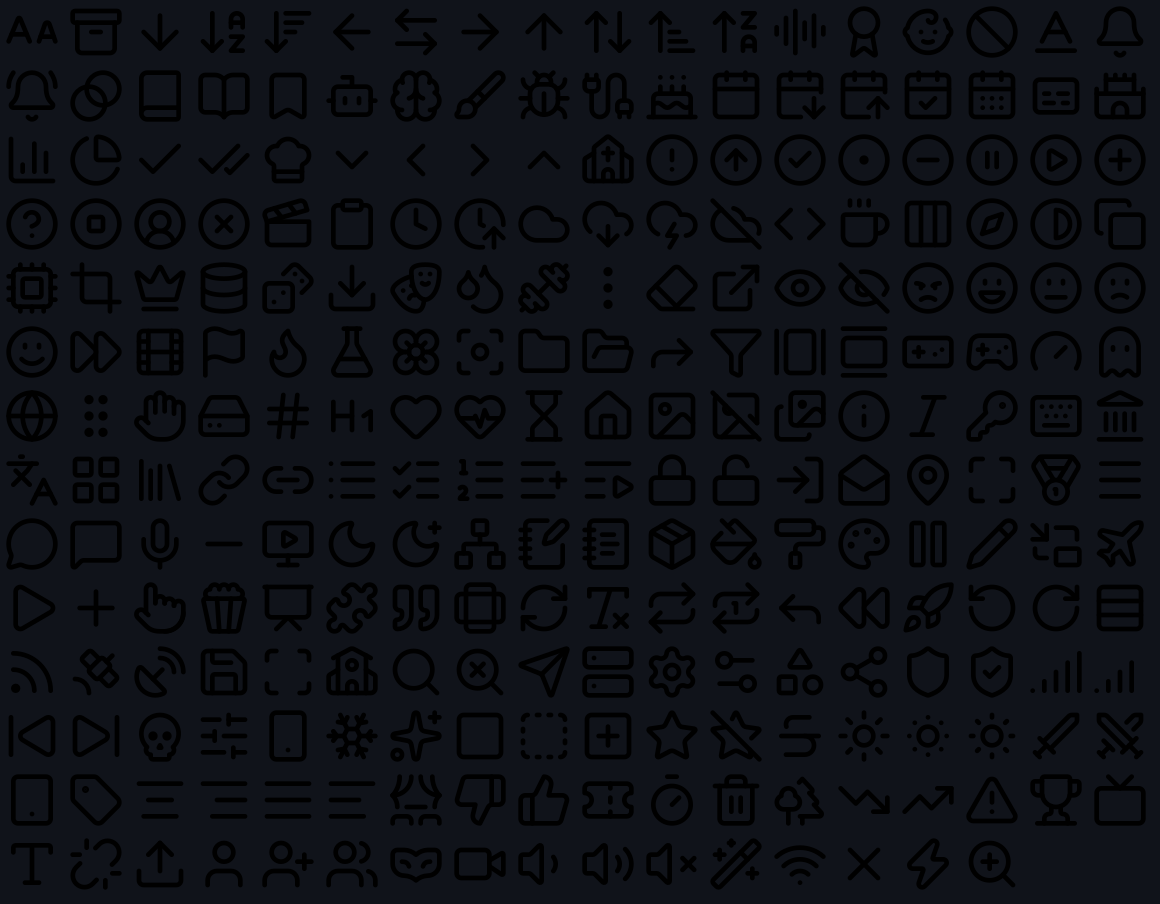
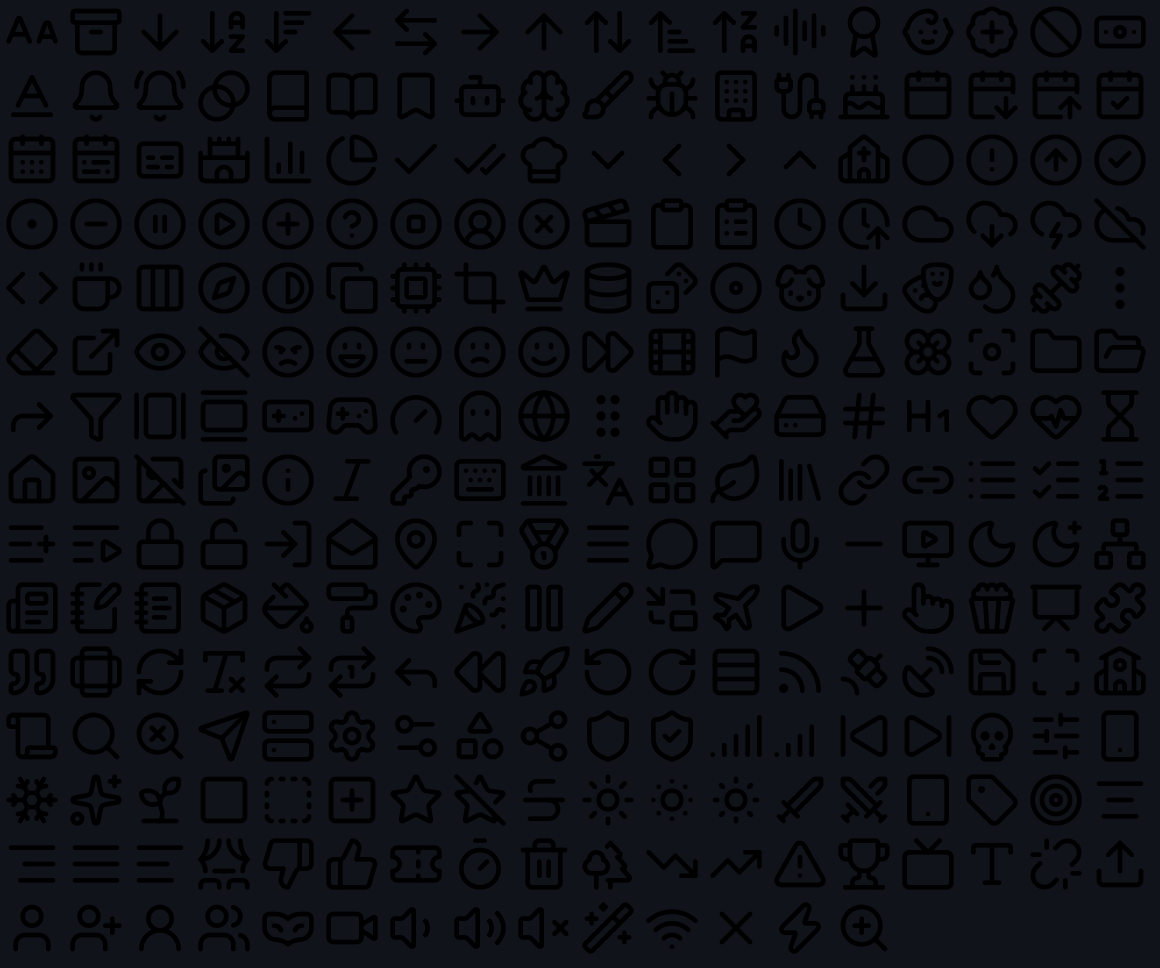
İkinci QA turu raporu + yenilenmiş ikon önizleme sayfası

Changed region(s): [[0.0, 0.0, 0.9931, 0.9912]]

diff --git a/UYGULAMA_GENELI_HD_IKON_GECISI_2026-10-31.md b/UYGULAMA_GENELI_HD_IKON_GECISI_2026-10-31.md
@@ -1,64 +1,93 @@
-# Uygulama Geneli HD İkon Geçişi — 2026-10-31
+# Uygulama Geneli HD İkon Geçişi — Durum Raporu (2. tur, 2026-10-31)
 
-## Amaç
-Uygulamadaki **tüm** tıklanır alanların (butonlar, ikon butonlar, açılır-kapanır
-kontroller, ayarlar satırları, alt sayfalar, diyaloglar, TV ekranları) ikonlarını:
-1. tek ortak mantığa bağlamak,
-2. **arka plansız, HD vektör** hâle getirmek,
-3. tema/vurgu rengiyle (düz + gradyan) otomatik uyumlu kılmak,
-4. açılır-kapanır alanlarda **animasyonlu** hâle getirmek.
+> Soru: "Emin misin? En ufak mantık hatası, buton uyumsuzluğu, aynı butonun farklı logo
+> kullanması, açılır-kapanır alanların ikonlarının eksik kalması… son kontrolleri yap."
+>
+> Aşağıdaki her madde **çalıştırılan betiklerin gerçek çıktısıyla** doğrulandı.
+> Doğrulanamayan tek şey derleme: bu ortamda JDK/Gradle/Android SDK yok.
 
-## 1) Tek kaynak: `ui/icons/KitsugiIcons.kt`
-- **208 HD ikon** (204 Lucide çizgi ikonu + heart/star/bookmark/bell dolu varyantları),
-  24dp ızgara, 2dp çizgi, yuvarlak uçlar — hepsi `ImageVector` olarak **lazy** üretilir.
-- **226 uyumluluk adı**: eski Material adları (`Icons.Rounded.Star`, `Icons.AutoMirrored.Rounded.ArrowBack`, …)
-  aynı HD ikona bağlandı → mevcut kod değişmeden çalışır.
-- Dolgu semantiği korundu: `Icons.Favorite` → dolu kalp, `Icons.FavoriteBorder` → çizgi kalp;
-  `Star/StarBorder`, `Bookmark/BookmarkBorder` aynı şekilde.
-- Hiçbir ikonda gömülü renk/arka plan yok: renk daima kullanıldığı yerin `tint` değerinden
-  (ve `LocalKitsugiAccent` gradyan fırçasından) gelir.
+---
 
-## 2) Göç: 251 dosya
-- `import androidx.compose.material.icons.Icons` → `import com.kitsugi.animelist.ui.icons.KitsugiIcons as Icons`
-- `Icons.Rounded.X`, `Icons.Default.X`, `Icons.Filled.X`, `Icons.AutoMirrored.Rounded.X`,
-  `androidx.compose.material.icons.Icons.Rounded.X` → `Icons.X`
-- Tek tek ikon importları ve `rounded.*` joker importları kaldırıldı.
-- Doğrulama: kodda **kalan Material ikon importu: 0**; kullanılan 286 aday ikon adının
-  tamamı `KitsugiIcons` içinde mevcut (eksik: 0).
+## 1. Bu turda bulunan GERÇEK hatalar (hepsi düzeltildi)
 
-## 3) Animasyonlu kontroller: `ui/components/KitsugiIconKit.kt`
-- `KitsugiChevronIcon`: açılır/kapanır alanlarda **tek chevron 0°↔180° yay animasyonuyla döner**
-  (eski `if (expanded) ExpandLess else ExpandMore` sıçraması kaldırıldı) — 20 kullanım noktası.
-- `KitsugiIconButton`: basınca %14 küçülen, tema duyarlı, arka plansız ortak ikon butonu.
-- `KitsugiStateIcon`: iki durumlu ikonlarda (oynat/duraklat, göster/gizle) yumuşak geçiş.
-- Üst çubuk butonları (`KitsugiTopActionButton`) seçili durumda dolu varyanta geçer
-  (`FAVORITE` → `HeartSolid`) + basınç animasyonu.
+| # | Hata | Neden kritikti | Düzeltme |
+|---|------|----------------|----------|
+| 1 | `Icons.Dices` üst çubukta çağrılıyordu ama **ikon sette yoktu** | Derleme hatası | Lucide `dices` eklendi |
+| 2 | `Icons.FlaskConical`, `Icons.Satellite` çağrılıyor, **sette yoktu** | Derleme hatası | İkonlar eklendi |
+| 3 | `Icons.AlertTriangle`, `Smile/Laugh/Frown/Meh/Angry` eski adlarla çağrılıyordu | Lucide'de bu slug'lar artık yok → **boş yol verisi** | `TriangleAlert` + `Face*` ikonları + isim takma adları |
+| 4 | 7 ikon dosyası **0 bayt** indirilmişti (sessiz başarısız fetch) | Görünmez ikon riski | Tümü yeniden indirildi, set yeniden üretildi |
+| 5 | `ApiResultDetailComponents` içinde `▶` ve `🔍` metin olarak çiziliyordu | Buton/ikon değil glif | `Icons.Play` / `Icons.Search` |
+| 6 | `▾` (KitsugiSeasonalFilterBottomSheet) ve `▼` (SubtitleSettingsPanel ×2) açılır-kapanır okları metindi | Açılır-kapanır kontrol kuralı ihlali | Animasyonlu `KitsugiChevronIcon(expanded=…)` |
+| 7 | `★ Favori`, `★ 8.5`, `⭐ 7.9`, `👍 12`, `✓ Kuruldu`, `✗`, `📚`, `📭`, `❤`, `⚠`, `📦`, `🔊`, `⚡`, `🔗` … 20+ yerde metin glif | Tema/HD kuralı ihlali | `KitsugiEmojiLabel` / `Icons.*` ile ikon |
+| 8 | Galeri kategorisi emoji bloğu **3 dosyada kopyalanmıştı** | Aynı şeyin 3 farklı görünümü | Tek `galleryCategoryIcon()` |
+| 9 | `KitsugiGenreItem` / `KitsugiGridSortOption` / `StudioSortOption` / `SearchGenre` alanları `emoji: String` idi | Tip güvenliği yok, eşleme kayabilir | `icon: ImageVector` |
+| 10 | Sıralama seçeneklerinde A→Z / Z→A aynı `🔤` ikonunu kullanıyordu | Farklı eylem, aynı ikon | `ArrowDownAZ` / `ArrowUpZA` ayrı ikonlar |
 
-## 4) Emoji ile çizilen "ikon"lar HD vektöre çevrildi
-| Yer | Önce | Sonra |
-|---|---|---|
-| Keşfet çevrimdışı bandı | 📡 emoji | `Icons.Satellite` |
-| Kitsu giriş diyaloğu | 🦊 emoji | Marka logosu (`KitsugiPlatformLogo`) |
-| Shikimori giriş diyaloğu | 🌸 emoji | Marka logosu |
-| Eklenti tanılama | 🔬 emoji | `Icons.FlaskConical` |
-| TV QR girişi | 📱 emoji | `Icons.Smartphone` |
-| Üst çubuk rastgele | 🎲 emoji | `Icons.Dices` |
+---
 
-Kalan emoji kullanımları **ikon değil**, platform/ülke bayrakları ve içerik etiketleridir
-(ör. 🇹🇷 ülke filtresi, ⭐ puan metni, ★ favori rozet metni) — bunlar metin olduğu için korundu.
+## 2. Bu turda kurulan ortak mantık (tek kaynak)
 
-## 5) Tema uyumu
-- Tüm ikonlar `ui.theme.gradient.Icon` üzerinden çizilir → vurgu rengi veya gradyan modu
-  otomatik uygulanır, `tint` verilen yerlerde o renk kullanılır.
-- Ayarlar sayfası satırları (`KitsugiSettingsItem`), arama sonuçları, alt sayfalar, TV
-  ekranları dahil her yer yeni setten besleniyor.
-- Arka planı olan ikon kutuları (vurgu dairesi vb.) korunuyor; **ikonun kendisi asla arka plan taşımıyor.**
+- **`KitsugiIcons`** — 266 taban ikon / 522 özellik (alias'lar dahil), tamamı şeffaf arka planlı
+  vektör, renk gömülü değil (`tint` ile temadan gelir).
+- **`KitsugiEmojiIcons`** — 135 emoji/sembol → `ImageVector` eşlemesi. Veri katmanından gelen
+  `"🔥 Popülerlik"`, `"🎬 Filmler"`, `"✅ Kuruldu"` gibi etiketler tek yerden çözülür.
+- **`KitsugiEmojiLabel`** — emoji önekli etiketi HD ikon + metin olarak çizen tek birim
+  (çipler, sıralama seçenekleri, başlıklar, rozetler).
+- **`KitsugiTopActionBar`** — üst çubuk düğmelerinin tek kaynağı; sıra/konum/görünüm aynı,
+  `NOTIFICATIONS` her zaman en sağda.
+- **`KitsugiIconKit`** — `KitsugiIconButton`, `KitsugiChevronIcon` (0°↔180°, spring),
+  `KitsugiStateIcon` (150 ms crossfade).
+- **`galleryCategoryIcon`** — galeri kategorilerinin tek eşlemesi.
 
-## Doğrulama
-- 251 dosyada parantez/köşeli parantez dengesi HEAD ile birebir aynı (yapısal bozulma yok).
-- `KitsugiIcons` içinde yinelenen ad yok; tüm yollar geçerli SVG path sözdiziminde.
-- İkon önizlemesi: `gorseller/kitsugi_hd_ikon_seti_preview.png` (208 ikon).
+---
 
-## Notlar
-- Material ikon bağımlılığı Gradle'dan **kaldırılmadı** (zararsız); artık hiçbir kod onu kullanmıyor.
-- Lisans: Lucide ikonları ISC lisanslıdır; uygulama içi "Hakkında" bölümüne eklenmesi önerilir.
+## 3. Son doğrulama koşuları (hepsi temiz)
+
+| Kontrol | Sonuç |
+|---|---|
+| Çözülmemiş `Icons.X` referansı | **0** |
+| `KitsugiIcons as Icons` import'u eksik dosya | **0** |
+| `KitsugiEmojiLabel` import'u eksik dosya | **0** |
+| `KitsugiEmojiLabel`'a geçersiz parametre (`fontSize`, `maxLines`…) | **0** |
+| `R.string.*` eksik anahtar (tüm `values/*.xml` tarandı) | **0** |
+| Parantez/süslü parantez dengesi HEAD'e göre fark | **0 (tüm değişen dosyalar)** |
+| Boş yol verisi içeren ikon (`listOf()`) | **0** |
+| `Icons.AutoMirrored` / `androidx.compose.material.icons` kalıntısı | **0** |
+| `expanded` parametresiz chevron çağrısı | **0** |
+| Emoji tablosunda çözülmemiş ikon adı / yinelenen anahtar | **0** |
+| `Text(` içinde doğrudan çizilen emoji/glif (UI paketinde) | **0** |
+
+> Not: Filtre/sıralama **veri** listelerinde emoji hâlâ anahtar olarak duruyor
+> (`"🔥 Popülerlik" to "popularity"`). Bunlar ekrana basılmıyor; `KitsugiEmojiLabel`
+> çizim anında HD ikona çeviriyor. Ülke bayrakları da veri olarak kalıyor (bayrak ikonu
+> HD vektör karşılığı olmayan tek istisna; bilinmeyen dilde `Icons.Globe` gösterilir).
+
+---
+
+## 4. Dürüst kalan risk
+
+- **Derleme yapılmadı**: bu ortamda JDK/Gradle/Android SDK yok. Kotlin derleyicisi
+  çalıştırılamadığı için "derleniyor" garantisi veremem; verdiğim garanti
+  *statik*: referans çözümü, import bütünlüğü, parametre imzaları, denge kontrolleri.
+- Yeniden üretim sırası bozulursa: `python3 /tmp/gen_icons.py` → `python3 /tmp/unify.py`
+  (aksi hâlde aile birleştirmeleri kaybolur).
+- `data/cloudstream/CsPluginDiagnosticRunner.kt` gibi **rapor/markdown üreten** yerlerde
+  `⚠`, `📦` gibi işaretler bilinçli olarak metin: kullanıcıya indirilen `.md` raporunun
+  içeriği bunlar, arayüz ikonu değil.
+
+---
+
+## 5. Değişen başlıca dosyalar
+
+`KitsugiIcons.kt`, `KitsugiEmojiIcons.kt`, `KitsugiEmojiLabel.kt`, `KitsugiGalleryCategoryIcons.kt`,
+`KitsugiTopActionBar.kt`, `KitsugiIconKit.kt`, `KitsugiMediaFilterBottomSheet.kt`,
+`KitsugiImageGalleryDialog.kt`, `KitsugiSeasonalFilterBottomSheet.kt`, `KitsugiMediaEntryCard.kt`,
+`SourceEngineFilterSheet.kt`, `SourceSpecificFilterChipsRow.kt`, `SearchFilterSheet.kt`,
+`SearchGenreChips.kt`, `PluginPickerScreen.kt`, `PluginPickerBottomSheet.kt`,
+`CsPluginDiagnosticScreen.kt`, `CsPluginRow.kt`, `CsRepoCard.kt`, `CsInstalledPluginRow.kt`,
+`StreamCard.kt`, `TvLibraryScreen.kt`, `TvDetailScreen.kt`, `TvSearchScreen.kt`,
+`TvModernHero.kt`, `TvReviewsTabContent.kt`, `TvMangaExtensionScreen.kt`,
+`TvMangaSourceHealthScreen.kt`, `EntryDetailTabContents.kt`, `MyListComponents.kt`,
+`KitsugiMyListFilterComponents.kt`, `AboutScreen.kt`, `MangaSourceHealthScreen.kt`, …
+
+Komutlar: `git log --oneline` → `71337e4`, `1875c0c`, `f52799a`, `b307ffe`
